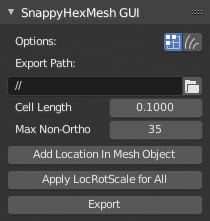
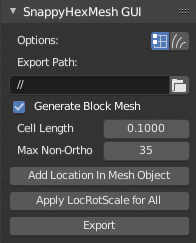
Update documentation (Generate Block Mesh option)

diff --git a/doc/searchindex.js b/doc/searchindex.js
@@ -1,1 +1,1 @@
-Search.setIndex({docnames:["index","snappy_gui"],envversion:{"sphinx.domains.c":1,"sphinx.domains.changeset":1,"sphinx.domains.cpp":1,"sphinx.domains.javascript":1,"sphinx.domains.math":2,"sphinx.domains.python":1,"sphinx.domains.rst":1,"sphinx.domains.std":1,sphinx:54},filenames:["index.rst","snappy_gui.rst"],objects:{},objnames:{},objtypes:{},terms:{"case":1,"default":1,"import":1,For:1,The:1,There:1,These:1,abl:1,about:1,accordingli:1,activ:1,add:0,added:1,addit:1,adjust:1,advantag:1,after:1,aid:1,aim:1,all:1,allow:1,also:1,although:1,ani:1,api:1,appli:1,applic:1,approv:1,area:1,assum:1,autoload:1,avail:1,baffl:1,base:1,basic:1,becaus:1,belong:[],beta:1,better:1,blend:1,block:1,blockmesh:1,blockmeshdict:1,bottom:1,bound:1,boundari:1,box:1,branch:1,bug:1,button:1,cad:1,calcul:1,call:1,can:1,categori:1,cell:1,cfd:1,check:1,checkmesh:1,click:1,clone:1,close:1,code:1,com:1,command:1,comment:1,common:1,comput:1,consist:1,contain:1,content:0,conveni:1,coordin:1,corner:1,correct:1,count:1,cover:1,coverag:1,creat:1,creation:1,cube:1,cubic:1,current:0,cursor:1,curv:1,decid:1,defin:1,definit:1,depend:1,develop:1,dictionari:1,directli:1,directori:1,distributor:1,doe:1,done:1,download:1,dynam:1,each:1,eas:1,edg:1,edit:1,emesh:1,empti:1,enabl:1,endors:1,engin:1,equat:1,error:1,estim:1,everi:1,exampl:0,exclus:1,exist:1,expand:1,extract:1,face:1,faq:0,featur:0,featuresurfac:1,feedback:0,field:1,file:1,fit:1,flow:1,fluid:1,folder:1,follow:1,format:1,foundat:1,from:1,gener:1,geometri:1,get:1,github:1,global:1,good:1,has:1,here:1,hereaft:1,hexahedr:1,high:1,hover:1,http:1,icon:1,ignor:1,implement:1,importantli:1,includ:1,inclus:1,inform:1,insid:1,instal:0,intern:1,introduct:0,kei:1,layer:1,learn:1,length:1,level:1,like:1,limit:1,list:1,locat:1,locrotscal:1,made:1,main:1,mainli:1,manifold:1,manual:1,mark:0,master:1,max:1,maximum:1,mean:1,meant:1,measur:1,mesh:1,middl:1,min:1,minim:1,minimum:1,mode:1,model:1,modif:1,modifi:1,more:1,most:1,mous:1,must:1,name:1,necessari:1,need:1,next:1,non:1,none:1,note:1,notic:0,number:1,numer:1,obj:1,offer:1,one:[],onli:[],ons:1,open:1,opencfd:1,openfoam:0,oper:1,option:1,order:1,ortho:1,orthogon:1,outlin:1,outsid:1,over:1,overal:1,overlap:1,owner:1,panel:0,paramet:1,paraview:1,part:1,patch:1,path:1,per:1,phase:1,polygon:1,power:1,pre:1,precis:1,prefer:1,press:1,process:1,produc:1,program:1,properti:1,provid:1,python:1,qualiti:1,quickstart:0,reduc:1,refin:1,region:1,relat:1,replac:1,report:1,requir:1,reset:1,rest:1,result:1,rotat:1,row:1,run:1,safe:1,same:1,save:1,scale:1,scene:1,scientif:1,see:1,select:1,separ:1,set:0,share:1,sharp:1,should:1,show:1,showcas:1,shown:1,side:1,sidebar:1,size:1,skel:1,skill:1,small:1,snap:1,snappyhexmesh_gui:1,snappyhexmeshdict:1,softwar:1,solut:1,some:1,sourc:1,span:1,special:1,specif:1,specifi:1,start:0,statu:0,steep:1,stl:1,string:1,structur:1,suitabl:1,sum:1,summar:1,surfac:1,surfacefeatur:1,surfacefeaturesdict:1,tab:1,take:1,target:1,templat:1,test:1,thei:1,thi:1,three:1,time:1,tip:1,tkeskita:1,toggl:1,tool:1,toolbox:1,top:1,trade:0,two:1,type:1,under:1,unless:1,unshar:1,updat:1,upon:1,use:1,used:1,user:1,using:1,util:1,valu:1,version:1,vessel:1,via:1,view:1,viewport:1,visibl:0,volum:1,wall:1,warn:1,wavefront:1,well:1,when:1,where:1,whether:1,which:1,whose:1,why:1,work:1,workflow:1,write:1,written:1,www:1,yield:1,you:1,zero:1,zip:1,zone:1},titles:["SnappyHexMesh GUI Addon for Blender","SnappyHexMesh GUI Addon for Blender"],titleterms:{"export":1,add:1,addon:[0,1],blender:[0,1],current:1,exampl:1,faq:1,featur:1,feedback:1,gui:[0,1],instal:1,introduct:1,mark:1,notic:1,object:1,openfoam:1,panel:1,quickstart:1,set:1,snappyhexmesh:[0,1],start:1,statu:1,summari:1,trade:1,visibl:1}})
+Search.setIndex({docnames:["index","snappy_gui"],envversion:{"sphinx.domains.c":1,"sphinx.domains.changeset":1,"sphinx.domains.cpp":1,"sphinx.domains.javascript":1,"sphinx.domains.math":2,"sphinx.domains.python":1,"sphinx.domains.rst":1,"sphinx.domains.std":1,sphinx:54},filenames:["index.rst","snappy_gui.rst"],objects:{},objnames:{},objtypes:{},terms:{"case":1,"default":1,"import":1,For:1,The:1,There:1,These:1,abl:1,about:1,accordingli:1,activ:1,add:0,added:1,addit:1,adjust:1,advantag:1,after:1,aid:1,aim:1,all:1,allow:1,also:1,although:1,ani:1,api:1,appli:1,applic:1,approv:1,area:1,assum:1,autoload:1,avail:1,baffl:1,base:1,basic:1,becaus:1,belong:[],beta:1,better:1,blend:1,block:1,blockmesh:1,blockmeshdict:1,bottom:1,bound:1,boundari:1,box:1,branch:1,bug:1,button:1,cad:1,calcul:1,call:1,can:1,categori:1,cell:1,cfd:1,check:1,checkmesh:1,click:1,clone:1,close:1,code:1,com:1,command:1,comment:1,common:1,comput:1,consist:1,contain:1,content:0,conveni:1,coordin:1,corner:1,correct:1,count:1,cover:1,coverag:1,creat:1,creation:1,cube:1,cubic:1,current:0,cursor:1,curv:1,decid:1,defin:1,definit:1,depend:1,develop:1,dictionari:1,directli:1,directori:1,distributor:1,doe:1,done:1,download:1,dure:1,dynam:1,each:1,eas:1,edg:1,edit:1,emesh:1,empti:1,enabl:1,endors:1,engin:1,equat:1,error:1,estim:1,everi:1,exampl:0,exclus:1,exist:1,expand:1,extract:1,face:1,faq:0,featur:0,featuresurfac:1,feedback:0,field:1,file:1,fit:1,flow:1,fluid:1,folder:1,follow:1,format:1,foundat:1,from:1,gener:1,geometri:1,get:1,github:1,global:1,good:1,has:1,here:1,hereaft:1,hexahedr:1,high:1,hover:1,http:1,icon:1,ignor:1,implement:1,importantli:1,includ:1,inclus:1,indic:1,inform:1,insid:1,instal:0,intern:1,introduct:0,kei:1,layer:1,learn:1,length:1,level:1,like:1,limit:1,list:1,locat:1,locrotscal:1,made:1,main:1,mainli:1,manifold:1,manual:1,mark:0,master:1,max:1,maximum:1,mean:1,meant:1,measur:1,mesh:1,middl:1,min:1,minim:1,minimum:1,mode:1,model:1,modif:1,modifi:1,more:1,most:1,mous:1,must:1,name:1,necessari:1,need:1,next:1,non:1,none:1,note:1,notic:0,number:1,numer:1,obj:1,offer:1,one:[],onli:[],ons:1,open:1,opencfd:1,openfoam:0,oper:1,option:1,order:1,ortho:1,orthogon:1,outlin:1,outsid:1,over:1,overal:1,overlap:1,owner:1,panel:0,paramet:1,paraview:1,part:1,patch:1,path:1,per:1,phase:1,polygon:1,power:1,pre:1,precis:1,prefer:1,press:1,process:1,produc:1,program:1,properti:1,provid:1,python:1,qualiti:1,quickstart:0,reduc:1,refin:1,region:1,relat:1,replac:1,report:1,requir:1,reset:1,rest:1,result:1,rotat:1,row:1,run:1,safe:1,same:1,save:1,scale:1,scene:1,scientif:1,see:1,select:1,separ:1,set:0,share:1,sharp:1,should:1,show:1,showcas:1,shown:1,side:1,sidebar:1,size:1,skel:1,skill:1,small:1,snap:1,snappyhexmesh_gui:1,snappyhexmeshdict:1,softwar:1,solut:1,some:1,sourc:1,span:1,special:1,specif:1,specifi:1,start:0,statu:0,steep:1,stl:1,string:1,structur:1,suitabl:1,sum:1,summar:1,surfac:1,surfacefeatur:1,surfacefeaturesdict:1,tab:1,take:1,target:1,templat:1,test:[],thei:1,thi:1,three:1,time:1,tip:1,tkeskita:1,toggl:1,tool:1,toolbox:1,top:1,trade:0,two:1,type:1,under:1,unless:1,unshar:1,updat:1,upon:1,use:1,used:1,user:1,using:1,util:1,valu:1,version:1,vessel:1,via:1,view:1,viewport:1,visibl:0,volum:1,wall:1,warn:1,wavefront:1,well:1,when:1,where:1,whether:1,which:1,whose:1,why:1,work:[],workflow:1,write:1,written:1,www:1,yield:1,you:1,zero:1,zip:1,zone:1},titles:["SnappyHexMesh GUI Addon for Blender","SnappyHexMesh GUI Addon for Blender"],titleterms:{"export":1,add:1,addon:[0,1],blender:[0,1],current:1,exampl:1,faq:1,featur:1,feedback:1,gui:[0,1],instal:1,introduct:1,mark:1,notic:1,object:1,openfoam:1,panel:1,quickstart:1,set:1,snappyhexmesh:[0,1],start:1,statu:1,summari:1,trade:1,visibl:1}})

diff --git a/doc/snappy_gui.html b/doc/snappy_gui.html
@@ -190,13 +190,12 @@ add-on’s <em>skel</em> directory. The add-on is developed for
 </div>
 <div class="section" id="current-status-and-features">
 <h2>Current Status and Features<a class="headerlink" href="#current-status-and-features" title="Permalink to this headline">¶</a></h2>
-<p>The add-on is currently in beta (testing) phase, so it should work.
-Currently implemented features include:</p>
+<p>Currently implemented features include:</p>
 <ul class="simple">
 <li>Creation of basic OpenFOAM case structure, including export of
 dictionary files (most importantly snappyHexMeshDict) and meshes as
 STL files</li>
-<li>Creation of definition file for hexahedral base volume mesh with
+<li>Optional creation of definition file for hexahedral base volume mesh with
 a defined cell size (blockMeshDict)</li>
 <li>Calculation of cell count for block volume mesh</li>
 <li>Definition of Surface Refinement Levels for surface meshes</li>
@@ -277,6 +276,8 @@ information.</p>
 <li><em>Export path</em> defines path name where the add-on creates the OpenFOAM
 case files when the Export tool is run. The default value “//” means
 that the case folder is the same folder where Blender file is saved.</li>
+<li><em>Generate Block Mesh</em> indicates that blockMeshDict is to be generated
+during export using <em>Cell Length</em> as a measure for cubical cell sides.</li>
 <li><em>Cell Length</em> is the target length for the block mesh cube side,
 which will be created after export by running the OpenFOAM command
 <em>blockMesh</em>.</li>
